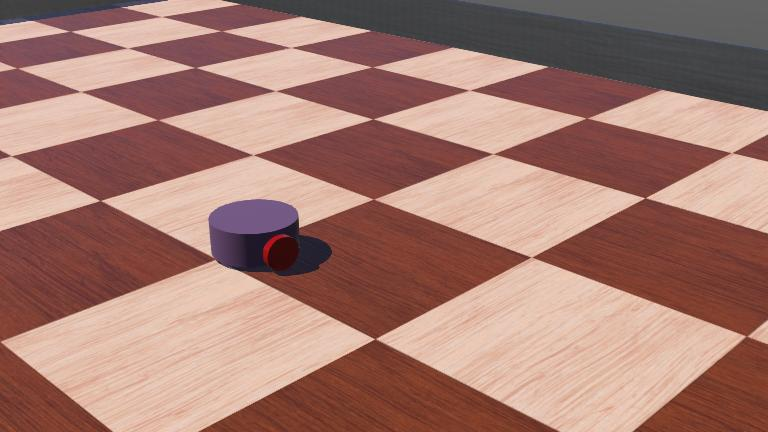
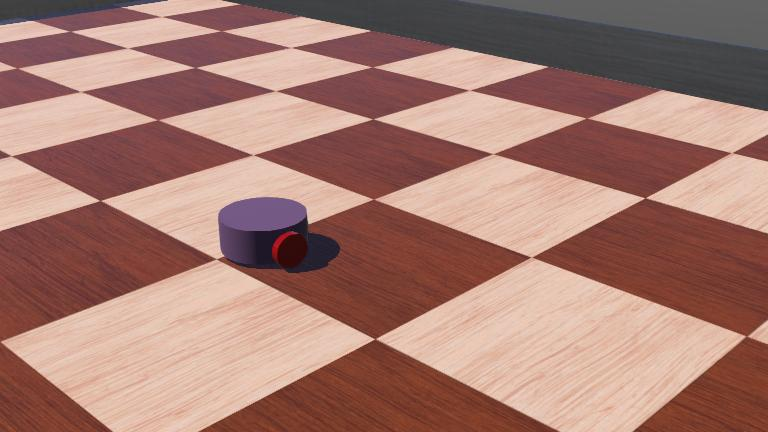
gps and Imu

Changed region(s): [[0.25, 0.4514, 0.4688, 0.662]]

diff --git a/Simulacion/Robot_Movil/controllers/robot_movil/robot_movil.py b/Simulacion/Robot_Movil/controllers/robot_movil/robot_movil.py
@@ -2,7 +2,7 @@
 
 # You may need to import some classes of the controller module. Ex:
 #  from controller import Robot, Motor, DistanceSensor
-from controller import Robot
+from controller import Robot, GPS, InertialUnit
 import sys
 import time
 import numpy as np
@@ -41,6 +41,40 @@ def set_motors_velocity(motor_r, motor_l, w):
     motor_l.setVelocity(w_l)
     return None
 
+def set_gps(name, time_step):
+    # Motor configuration
+    # INPUTS
+    # name                                  - defined name of the sensor
+    # time_step                             - sample time defined in the simulation
+    # OUTPUT                                    
+    # gps                                   - object with all the necessary attributes to access the information of the sensor
+    gps = GPS(name)
+    gps.enable(time_step)
+    return gps
+
+def set_imu(name, time_step):
+    # IMU configuration
+    # INPUTS
+    # name                                  - defined name of the sensor
+    # time_step                             - sample time defined in the simulation
+    # OUTPUT                                    
+    # imu                                   - object with all the necessary attributes to access the information of the sensor
+    imu = InertialUnit(name)
+    imu.enable(time_step)
+    return imu
+
+def get_states(robot, gps, imu, time_step, L):
+    # split internal values
+    r = L[0] 
+    l = L[1]
+    a = L[2]
+    if robot.step(time_step) != -1:
+        position = gps.getValues()
+        orientation = imu.getRollPitchYaw()
+        data = [position[0] + a*np.cos(orientation[2]), position[1] + a*np.sin(orientation[2]), orientation[2]]
+    x = np.array(data)
+    return x
+
 def main(robot):
     # Get the time step of the current world.
     time_step = int(robot.getBasicTimeStep())
@@ -50,6 +84,9 @@ def main(robot):
     t_s = 0.03
     # Time simulation
     t = np.arange(0, t_final + t_s, t_s, dtype=np.double)
+
+    # System states
+    x = np.zeros((3, t.shape[0]+1), dtype = np.double)
 
     # Signals designed to move the motors
     u = np.zeros((2, t.shape[0]), dtype = np.double)
@@ -62,6 +99,19 @@ def main(robot):
     motor_left = set_motor(motor_left)
     motor_right = set_motor(motor_right)
 
+    # Robot Sensors
+    # Get system sensors
+    gps = set_gps("gps", time_step)
+    imu = set_imu("inertial unit", time_step)
+
+    # Parameters of the robot
+    r = 0.190/2
+    l = 0.381
+    a = 0.01
+    L = [r, l ,a]
+
+
+    # SImulation loop
     for k in range(0, t.shape[0]):
         if robot.step(time_step) != -1:
             tic = time.time()
@@ -71,6 +121,9 @@ def main(robot):
             # Send control values to the robot
             set_motors_velocity(motor_right, motor_left, u[:, k])
             print('Moving Robot')
+            print("States of the robot")
+            print(x[:, k])
+            x[: , k+1] = get_states(robot, gps, imu, time_step, L)
 
             # Sample time saturation
             while (time.time() - tic <= t_s):
